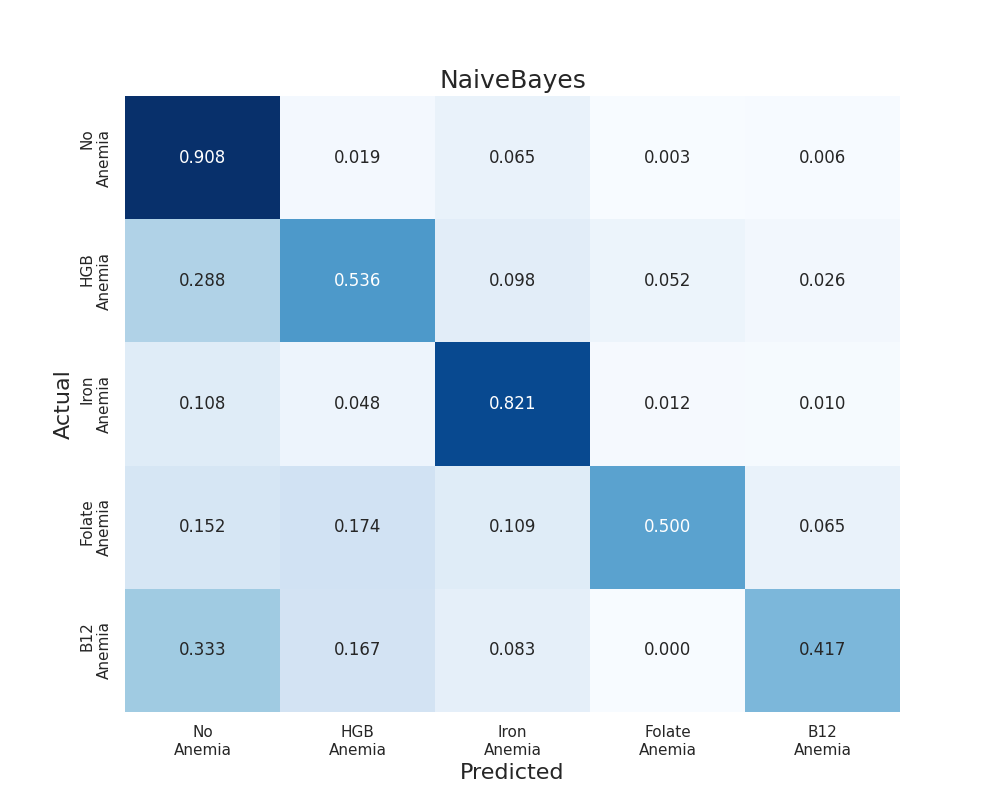
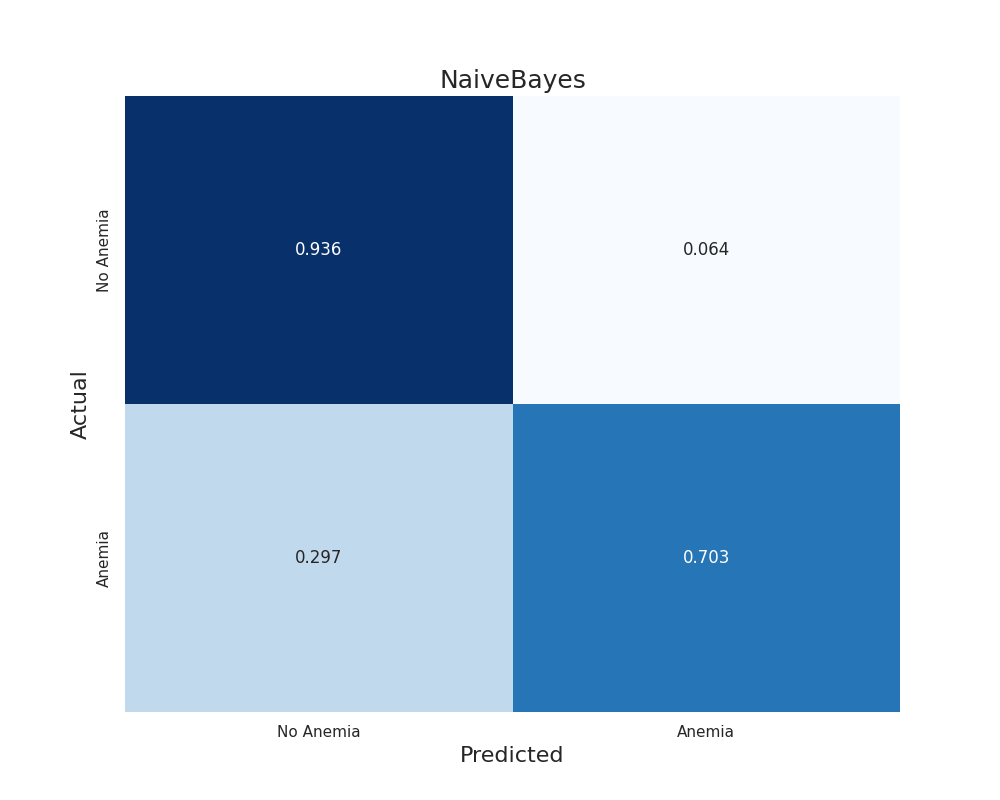
added cross-dataset validation model

diff --git a/src/anemia/anemia_binary_classifier.py b/src/anemia/anemia_binary_classifier.py
@@ -1,0 +1,63 @@
+import json
+
+import matplotlib.pyplot as plt
+from sklearn.tree import plot_tree
+
+import utils.data_utils as data_utils
+import utils.model_utils as model_utils
+
+if __name__ == '__main__':
+    csv_file_one = "resources/anemia_disease.csv"
+    csv_file_two = "resources/anemia_dataset.csv"
+    df_one, df_two = data_utils.load_cross_dataset_validation(csv_file_one, csv_file_two)
+    df_one['ANEMIA'] = df_one['ANEMIA'].apply(lambda x: 1 if x > 0 else 0)
+    df_two['GENDER'] = df_two['GENDER'].apply(lambda x: 1 if x == 0 else 1)  # Invert GENDER attributes
+    train_X, train_Y, test_X, test_Y, preprocessor = data_utils.split_train_test_data(data_frame=df_one, test_size=0.3,
+                                                                                      y_class="ANEMIA")
+
+    x_two_preprocessed, y_two, _ = data_utils.preprocess_data(df_two, "ANEMIA", preprocessor)
+
+    labels = ["No Anemia", "Anemia"]
+    # labels = ["No\nAnemia", "HGB\nAnemia", "Iron\nAnemia", "Folate\nAnemia", "B12\nAnemia"]
+    models = ["DecisionTree", "KNN", "LogisticRegression", "NaiveBayes", "RandomForest", "SVM"]
+
+    metrics_list = []
+    metrics_list_two = []
+    for model in models:
+        # Dataset one
+        y_pred, trained_model = model_utils.train_model(train_X, train_Y, test_X, test_Y, model_name=model)
+        output_plot_file = f"output/{model}_confusion_matrix.png"
+        output_metrics_file = f"output/{model}_metrics.png"
+        model_metrics = model_utils.plot_confusion_matrix(test_Y=test_Y, y_pred=y_pred, labels=labels, model_name=model,
+                                                          output_file=output_plot_file,
+                                                          metrics_file=output_metrics_file,
+                                                          plot_metrics_figure=False,
+                                                          percentage=True)
+        metrics_list.append(model_metrics)
+        if model == "DecisionTree":
+            plt.figure(figsize=(20, 10))
+            plot_tree(trained_model, filled=True, feature_names=df_one.columns, class_names=labels, rounded=True)
+            plt.title("Decision Tree")
+            plt.savefig(f"output/{model}_tree.png")
+            plt.close()
+
+        # Dataset two
+
+        output_plot_file = f"output/{model}_B_confusion_matrix.png"
+        output_metrics_file_two = f"output/{model}_B_metrics.png"
+        y_pred_two = trained_model.predict(x_two_preprocessed)
+        dataset_two_metrics = model_utils.plot_confusion_matrix(test_Y=y_two, y_pred=y_pred_two, labels=labels,
+                                                                model_name=model,
+                                                                output_file=output_plot_file,
+                                                                metrics_file=output_metrics_file,
+                                                                plot_metrics_figure=False,
+                                                                percentage=True
+                                                                )
+        metrics_list_two.append(dataset_two_metrics)
+
+    with open("figures/model_metrics.json", "w") as metrics_json:
+        metrics_json.write(json.dumps(metrics_list, indent=2))
+    with open("figures/model_metrics_two.json", "w") as metrics_json_two:
+        metrics_json_two.write(json.dumps(metrics_list_two, indent=2))
+
+    print("finished")

diff --git a/src/anemia/utils/model_utils.py b/src/anemia/utils/model_utils.py
@@ -60,15 +60,18 @@ def train_model(train_X, train_Y, test_X, test_Y, model_name="RandomForest", **k
 
 def plot_confusion_matrix(test_Y, y_pred, labels=["No Anemia", "Anemia"], model_name="model",
                           output_file="output/confusion_matrix.png",
-                          metrics_file="output/metrics.png"):
+                          metrics_file="output/metrics.png",
+                          plot_metrics_figure=False,
+                          percentage=True):
     # Plot confusion matrix
     conf_matrix = confusion_matrix(test_Y, y_pred)
     # Normalize confusion matrix to get percentages
-    conf_matrix_percentage = conf_matrix.astype('float') / conf_matrix.sum(axis=1)[:, np.newaxis]
+    if percentage:
+        conf_matrix = conf_matrix.astype('float') / conf_matrix.sum(axis=1)[:, np.newaxis]
 
     plt.figure(figsize=(10, 8))
     sns.set(font_scale=1)  # Increase font scale for better readability
-    sns.heatmap(conf_matrix_percentage, annot=True,
+    sns.heatmap(conf_matrix, annot=True,
                 fmt=".3f",
                 cmap="Blues",
                 xticklabels=labels,
@@ -85,14 +88,15 @@ def plot_confusion_matrix(test_Y, y_pred, labels=["No Anemia", "Anemia"], model_
     report = classification_report(test_Y, y_pred, target_names=labels, output_dict=True)
     print(report)
 
-    # Save the classification report as a text plot
-    plt.figure(figsize=(6, 2))
-    plt.title(model_name)
-    # plt.text(0.01, 0.5, str(model_name), {'fontsize': 12}, fontproperties='monospace')
-    plt.text(0.01, 0, str(report), {'fontsize': 10}, fontproperties='monospace')
-    plt.axis('off')
-    plt.savefig(metrics_file)
-    plt.close()
+    if plot_metrics_figure:
+        # Save the classification report as a text plot
+        plt.figure(figsize=(6, 2))
+        plt.title(model_name)
+        # plt.text(0.01, 0.5, str(model_name), {'fontsize': 12}, fontproperties='monospace')
+        plt.text(0.01, 0, str(report), {'fontsize': 10}, fontproperties='monospace')
+        plt.axis('off')
+        plt.savefig(metrics_file)
+        plt.close()
 
     accuracy = accuracy_score(test_Y, y_pred)
     precision = precision_score(test_Y, y_pred, average='weighted')

diff --git a/src/anemia/anemia_cross_dataset_validation.py b/src/anemia/anemia_cross_dataset_validation.py
@@ -1,3 +1,5 @@
+import json
+
 import numpy as np
 import pandas as pd
 import matplotlib.pyplot as plt
@@ -14,7 +16,7 @@ if __name__ == '__main__':
     csv_file_two = "resources/anemia_dataset.csv"
     df_one, df_two = data_utils.load_cross_dataset_validation(csv_file_one, csv_file_two)
     df_one['ANEMIA'] = df_one['ANEMIA'].apply(lambda x: 1 if x > 0 else 0)
-    df_two['ANEMIA'] = df_two['ANEMIA'].apply(lambda x: 1 if x == 0 else 1) # Invert GENDER attributes
+    df_two['GENDER'] = df_two['GENDER'].apply(lambda x: 1 if x == 0 else 1)  # Invert GENDER attributes
     train_X, train_Y, test_X, test_Y, preprocessor = data_utils.split_train_test_data(data_frame=df_one, test_size=0.3,
                                                                                       y_class="ANEMIA")
 
@@ -44,8 +46,15 @@ if __name__ == '__main__':
     output_metrics_file = f"output/{model_name}_metrics.png"
 
     y_pred_two = trained_model.predict(x_two_preprocessed)
-    model_utils.plot_confusion_matrix(test_Y=y_two, y_pred=y_pred_two, labels=labels, model_name=model,
-                                      output_file=output_plot_file, metrics_file=output_metrics_file)
+    dataset_two_metrics = model_utils.plot_confusion_matrix(test_Y=y_two, y_pred=y_pred_two, labels=labels,
+                                                            model_name=model,
+                                                            output_file=output_plot_file,
+                                                            metrics_file=output_metrics_file,
+                                                            percentage=False
+                                                            )
+
+    with open("figures/model_metrics_2.json", "w") as metrics_json:
+        metrics_json.write(json.dumps([dataset_two_metrics], indent=2))
 
     plt.figure(figsize=(20, 10))
     plot_tree(trained_model, filled=True, feature_names=df_two.columns, class_names=labels, rounded=True)

diff --git a/src/anemia/data_plot.py b/src/anemia/data_plot.py
@@ -7,7 +7,7 @@ from pandas.plotting import table
 from src.anemia.utils import data_utils
 
 
-def plot_table(summary_df, output_file: str):
+def plot_table(summary_df, output_file: str, title=""):
     # Display the summary DataFrame
     print(summary_df)
     # Plotting the table
@@ -23,7 +23,7 @@ def plot_table(summary_df, output_file: str):
     for key, cell in tbl.get_celld().items():
         if key[0] == 0:
             cell.set_text_props(fontweight='bold')
-    plt.title('', fontsize=14)
+    plt.title(title, fontsize=14)
     plt.savefig(output_file)
 
 
@@ -51,6 +51,7 @@ if __name__ == '__main__':
     # plot_table_dataset_one()
     print("hello")
     metrics_values = json.loads(open("figures/model_metrics.json").read())
+    # metrics_values = json.loads(open("figures/model_metrics_two.json").read())
     model_values = []
     for value in metrics_values:
         model_values.append({
@@ -62,4 +63,5 @@ if __name__ == '__main__':
         })
 
     metrics_df = pd.DataFrame(model_values)
-    plot_table(metrics_df, "figures/table_models_metrics_classification_d1.png")
+    plot_table(metrics_df, "figures/table_models_metrics_classification_d1.png", title="Models performance on Test data")
+    # plot_table(metrics_df, "figures/table_models_metrics_classification_d2.png", title="Cross-Dataset Validation")
